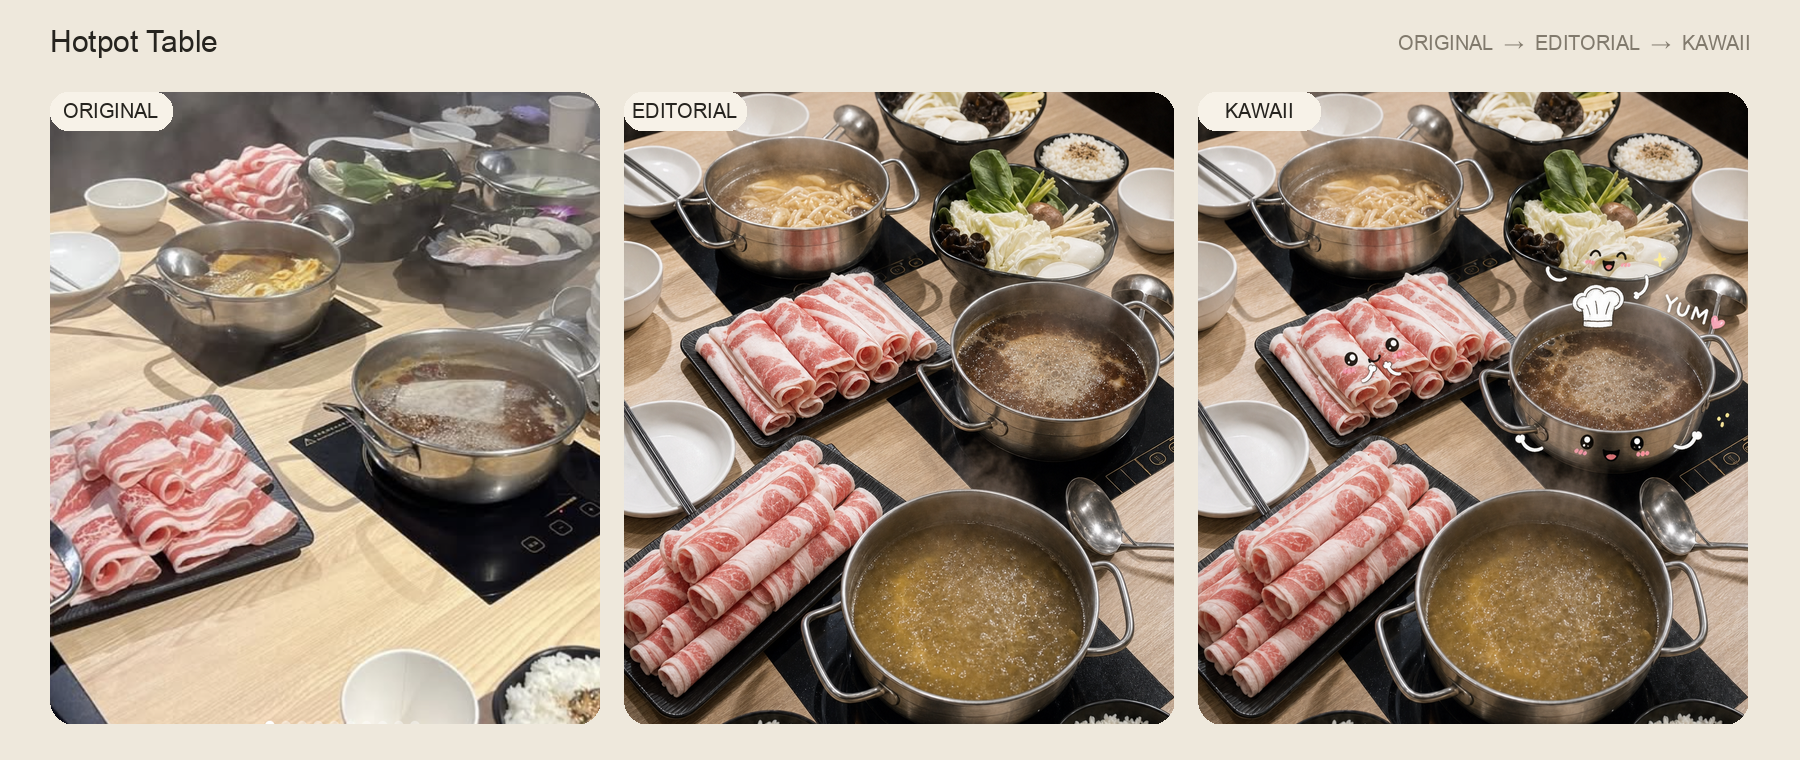
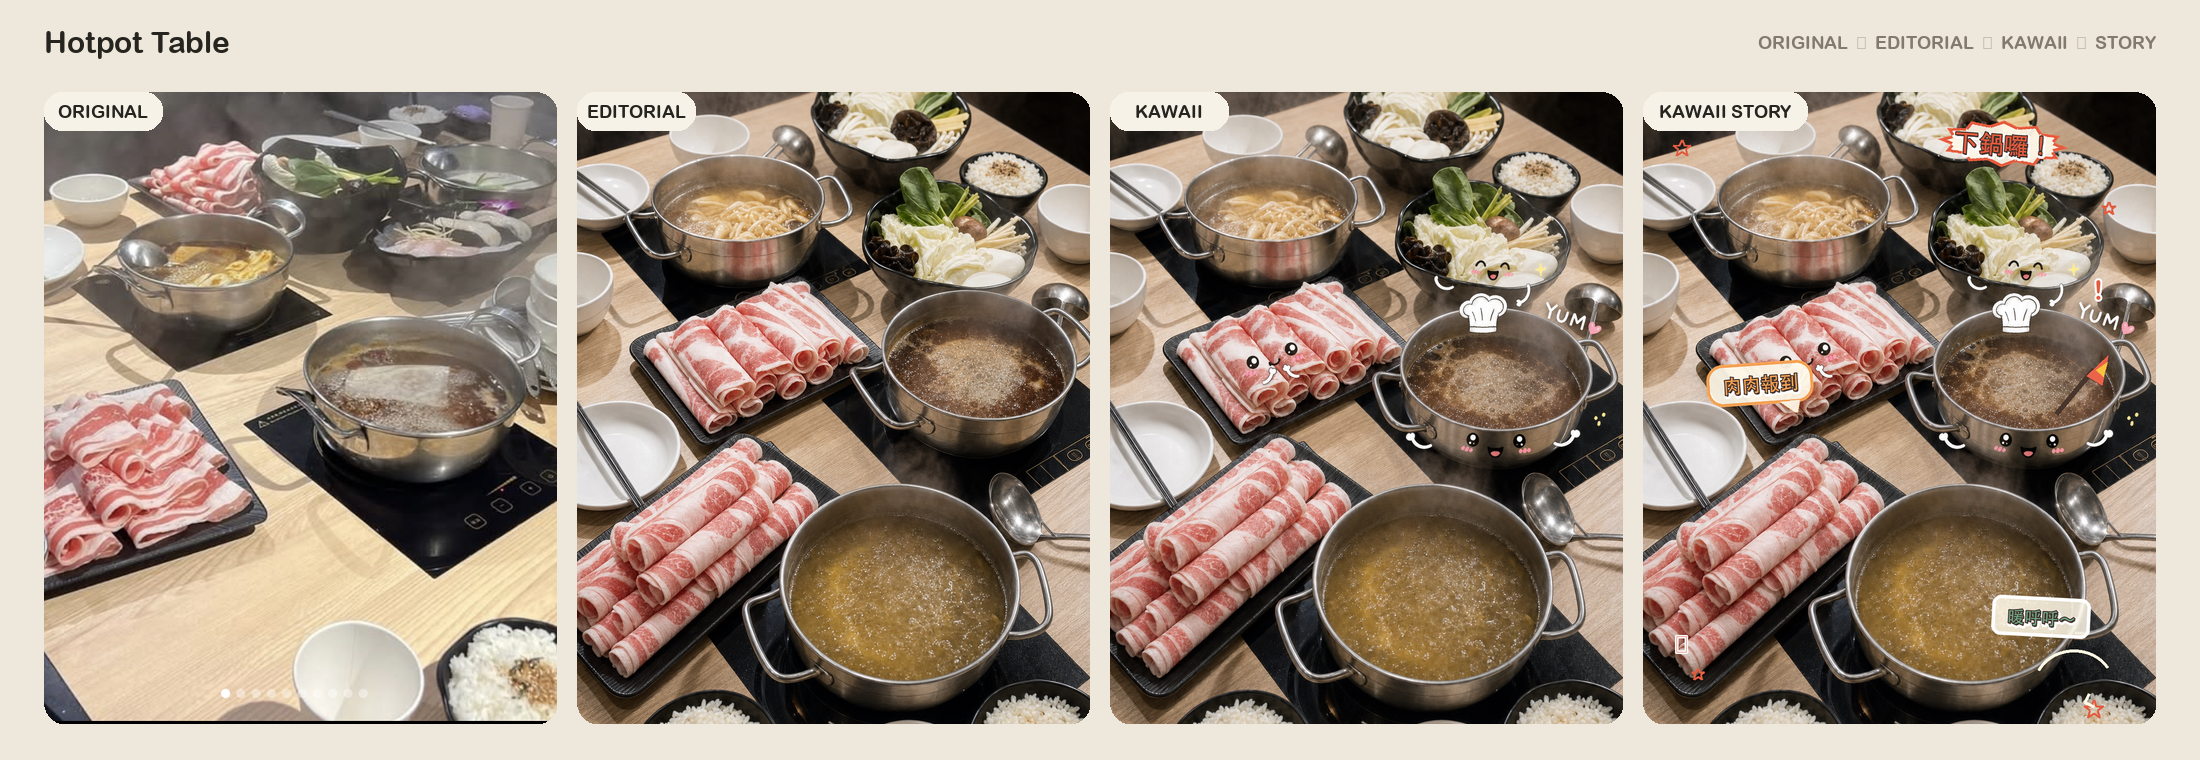
Add lively caption bubbles and story props

diff --git a/skill/aesthetic-object-recomposer/references/text-captioning.md b/skill/aesthetic-object-recomposer/references/text-captioning.md
@@ -39,11 +39,29 @@ Do not copy text from reference images. Write original captions that fit the sup
 
 ## Typography
 
-- Use casual hand-drawn lettering with slightly irregular baselines.
-- Default to white or cream with a subtle dark shadow or outline.
-- Use one source-derived accent color for emphasis marks only.
-- Combine at most two sizes and one lettering style.
-- Avoid heavy display fonts, dense bubbles, vertical typesetting, and long paragraphs.
+- Use lively hand-drawn scrapbook lettering with irregular baselines, playful rotation, and visibly varied character size.
+- Build a clear hierarchy: one bold comic-style hero phrase, one smaller handwritten reaction, and an optional tiny scene note.
+- Use cream or white as the reading base, plus 2–4 source-derived accent colors for key words, punctuation, stars, music notes, and emphasis marks.
+- Add a thick contrasting outline or sticker-like border so every phrase remains readable over photography.
+- Mix filled bubble lettering, loose handwritten notes, and compact speech balloons while keeping the set visually coherent.
+- Short English exclamations such as `WOW!`, `YUM!`, `GO!`, or `HI!` may be combined with exact Chinese copy when they strengthen the character action.
+- Allow rounded speech bubbles, burst shapes, thought clouds, curved arrows, dotted paths, sparkles, blush marks, and motion lines.
+- Avoid rigid typesetting, corporate fonts, dense rectangular text boxes, long paragraphs, or perfectly aligned captions.
+
+## Reference-energy target
+
+- Match the cheerful social-post energy of kawaii food doodle references: expressive faces first, playful captions second, decorative marks third.
+- Captions should feel physically connected to the speaking object through a tail, arrow, pose, or nearby action mark.
+- Favor asymmetry and rhythm: one large phrase, one medium reaction, several tiny marks—not three identical labels.
+- Keep overlays handmade and spontaneous, but make all Chinese glyphs deterministic and exact.
+
+## Story-prop illustration
+
+- When the scene supports it, add 1–2 small illustrated props that turn the caption into an action: chef hat, spoon, fork, flag, headband, instrument, menu, alarm clock, shopping bag, or tiny costume accessory.
+- Attach every prop to an existing character or place it directly beside that character. The prop must explain the joke or action rather than act as unrelated decoration.
+- Match the existing doodle line weight, outline color, blush palette, and simplified perspective.
+- Keep prop coverage below 10% of the frame and never hide the photographed object's identifying surface, label, or food texture.
+- Do not add a full new photographed object. Story props are clearly hand-drawn overlays only.
 
 ## Accuracy strategy
 

diff --git a/README.en.md b/README.en.md
@@ -11,7 +11,7 @@ Turn ordinary photos into polished Instagram-ready editorial images, then create
 - Produces a matched three-image set by default:
   1. **Editorial:** clean lifestyle photography with natural window light and magazine styling.
   2. **Kawaii Clean:** an overlay-only Q-style character treatment based directly on the Editorial result.
-  3. **Kawaii Story:** the clean character version plus short captions, dialogue, arrows, and handwritten annotations.
+  3. **Kawaii Story:** the clean character version plus lively speech-bubble lettering, dialogue, arrows, and small story-linked illustrated props.
 - Locks crop, camera, placement, lighting, shadows, background, and depth of field across all three images.
 - Uses deterministic post-production typesetting when exact Chinese text is required.
 - Guards against fake text, floating objects, duplicate food, excessive orange grading, HDR, watermarks, and social-media UI.
@@ -40,12 +40,12 @@ editorial lifestyle composition, then create a matched kawaii doodle version.
 3. Select recomposition strength and one dominant composition.
 4. Generate the clean Editorial image first.
 5. Use the approved Editorial image as the immutable base for Kawaii Clean.
-6. Use the approved Kawaii Clean image as the immutable base for Kawaii Story captions.
+6. Use the approved Kawaii Clean image as the immutable base for lively captions and a few story-supporting doodle props.
 7. Validate object fidelity, grounding, shadows, depth, text accuracy, and set consistency.
 
 ## Comparisons
 
-Each example shows **Original → Editorial → Kawaii**.
+Each example shows **Original → Editorial → Kawaii Clean → Kawaii Story**.
 
 ![Drink and laptop](examples/drink-laptop-comparison.png)
 ![Two cups](examples/two-cups-comparison.png)
@@ -55,12 +55,12 @@ Each example shows **Original → Editorial → Kawaii**.
 ![Taco feast](examples/taco-comparison.png)
 ![Ramen night](examples/ramen-comparison.png)
 ![Curry rice](examples/curry-comparison.png)
-![Ham and egg breakfast](examples/ham-breakfast-comparison-v2.png)
+![Ham and egg breakfast](examples/ham-breakfast-comparison.png)
 
 ## Notes
 
 - Very small labels and trademarks may not be reproduced perfectly by image models.
-- Kawaii overlays should remain sparse and must not obscure food texture or product labels.
+- Kawaii lettering and illustrated props must not obscure food texture or product labels.
 - People are not doodled by default.
 - Example images are included only to demonstrate the transformation workflow.
 

diff --git a/skill/aesthetic-object-recomposer/references/prompt-recipes.md b/skill/aesthetic-object-recomposer/references/prompt-recipes.md
@@ -32,7 +32,7 @@ Build prompts in this order: edit intent, protected inventory, composition, envi
 
 ## Kawaii storytelling third pass
 
-> Use the supplied approved Kawaii Clean image as an immutable base. Preserve every photographic pixel and all existing character faces, limbs, props, and symbols. Add only the planned storytelling layer: [CAPTION 1] near [ANCHOR 1], [CAPTION 2] near [ANCHOR 2], and optionally [CAPTION 3] near [ANCHOR 3]. Use casual handwritten lettering, short curved arrows or speech tails, and a few emphasis marks. Keep each Chinese caption to 4–12 characters or each English caption to 1–5 words. Place text only in calm negative space; never cover food texture, product labels, faces, hands, controls, or hero silhouettes. Keep total text coverage below 16% of the frame. Render all requested text exactly as supplied. No new objects, new characters, changed expressions, moved doodles, dense paragraphs, fake labels, watermark, social-media UI, composition grid, or tutorial diagram.
+> Use the supplied approved Kawaii Clean image as an immutable base. Preserve every photographic pixel and all existing character faces, limbs, props, and symbols. Add only the planned storytelling layer: [CAPTION 1] near [ANCHOR 1], [CAPTION 2] near [ANCHOR 2], and optionally [CAPTION 3] near [ANCHOR 3]. Use lively hand-drawn sticker lettering with varied scale and rotation, thick contrasting outlines, 2–4 scene-derived accent colors, compact speech bubbles, curved arrows, sparkles, music notes, and comic emphasis marks. When the story benefits, attach 1–2 small hand-drawn props such as a chef hat, spoon, flag, headband, instrument, menu, or alarm clock to an existing character; keep prop coverage below 10% and match the existing doodle line work. Create an asymmetric hierarchy with one large hero phrase, one smaller reaction, and optional tiny sound or mood marks. Keep each Chinese caption to 4–12 characters or each English caption to 1–5 words. Place text only in calm negative space; never cover food texture, product labels, faces, hands, controls, or hero silhouettes. Keep total text coverage below 16% of the frame. Render all requested text exactly as supplied. No new photographed objects, new characters, changed expressions, moved doodles, dense paragraphs, fake labels, watermark, social-media UI, composition grid, or tutorial diagram.
 
 ## Targeted corrections
 

diff --git a/README.md b/README.md
@@ -11,7 +11,7 @@
 - 預設輸出一組相互配對的三張圖片：
   1. **Editorial**：乾淨、自然、具有窗光與雜誌感的網美攝影版。
   2. **Kawaii Clean**：直接在 Editorial 成品上加入 Q 版表情、短手腳與少量塗鴉。
-  3. **Kawaii Story**：沿用純 Q 版，再加入短中文旁白、角色對話、箭頭與手繪註記。
+  3. **Kawaii Story**：沿用純 Q 版，再加入氣泡字、短中文旁白、角色對話、箭頭，以及與情節連動的小道具插畫。
 - 三個階段皆鎖定裁切、鏡位、物件位置、光線、陰影與景深，避免構圖漂移。
 - 精確中文優先使用後製排字，避免 AI 生成亂碼。
 - 自動避免假文字、浮空物件、重複餐點、過度橘色、HDR 與社群介面。
@@ -47,12 +47,12 @@ cp -R skill/aesthetic-object-recomposer ~/.codex/skills/
 3. 選擇適合的構圖與重排強度。
 4. 先生成乾淨的 Editorial 版本。
 5. 以 Editorial 圖片為底圖，只加入 Q 版 overlay。
-6. 以純 Q 版為底圖，只加入短句、箭頭與旁白。
+6. 以純 Q 版為底圖，加入活潑氣泡字、箭頭、旁白與少量角色道具插畫。
 7. 檢查物件完整性、接觸陰影、景深、文字正確性與三張圖片的一致性。
 
 ## 前後對比
 
-每張圖依序為：**原圖 → 網美重排版 → Q 版**。
+每張圖依序為：**原圖 → 網美重排版 → 純 Q 版 → 氣泡文字故事版**。
 
 ### 飲料與筆電
 
@@ -88,7 +88,7 @@ cp -R skill/aesthetic-object-recomposer ~/.codex/skills/
 
 ### 火腿蛋早餐
 
-![Ham and egg breakfast comparison](examples/ham-breakfast-comparison-v2.png)
+![Ham and egg breakfast comparison](examples/ham-breakfast-comparison.png)
 
 ## 檔案結構
 
@@ -108,7 +108,7 @@ cp -R skill/aesthetic-object-recomposer ~/.codex/skills/
 ## 注意事項
 
 - 圖像生成模型仍可能無法百分之百重現非常細小的文字或商標。
-- Q 版圖層應保持稀疏，不應遮住食品質感或產品標籤。
+- Q 版圖層應保持清楚有節奏；氣泡字與道具插畫不應遮住食品質感或產品標籤。
 - 如果原圖包含人物，預設不在人物臉部加塗鴉。
 - 範例圖片僅用於展示 Skill 的圖像轉換流程。
 

diff --git a/skill/aesthetic-object-recomposer/SKILL.md b/skill/aesthetic-object-recomposer/SKILL.md
@@ -29,7 +29,7 @@ Create the finished image whenever an image-editing or image-generation tool is 
 
 - A, B, and C must share the same canvas, crop, camera angle, lens perspective, object positions, scale, overlap, lighting, shadows, background, color grade, and depth of field.
 - B may add only faces, short limbs, tiny props, motion marks, sparkles, and very short decorative lettering.
-- C may add only planned captions, dialogue, arrows, brackets, and emphasis marks to B.
+- C may add only planned captions, dialogue, arrows, brackets, sticker-like outlines, speech bubbles, lively emphasis marks, and 1–2 small story-supporting illustrated props attached to existing characters.
 - B and C must not move, resize, replace, duplicate, remove, or restyle any photographed object.
 - Use approved A as B's source and approved B as C's source.
 - Name outputs clearly as `editorial`, `kawaii-clean`, and `kawaii-story`.
@@ -46,7 +46,7 @@ Create the finished image whenever an image-editing or image-generation tool is 
 - Use foreground, subject plane, and soft background to create three-layer depth.
 - Remove clutter only when it is not part of the protected inventory.
 - Do not show composition grids, dotted guides, labels, or explanatory text in the final image. The reference diagrams are planning tools only.
-- In Kawaii mode, use sparse hand-drawn overlays; never cover product labels, food texture, or the hero silhouette with doodles.
+- In Kawaii Clean mode, use sparse hand-drawn overlays. In Kawaii Story mode, use a lively scrapbook rhythm with one hero caption, smaller reactions, colorful punctuation, and motion marks; never cover product labels, food texture, or the hero silhouette.
 
 ## Fidelity Guardrails
 
